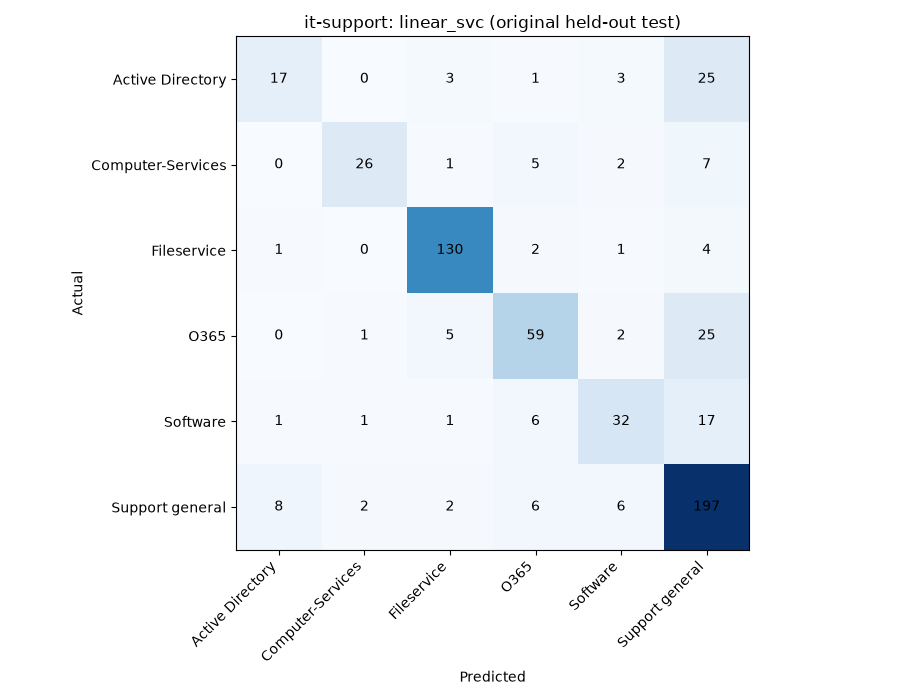
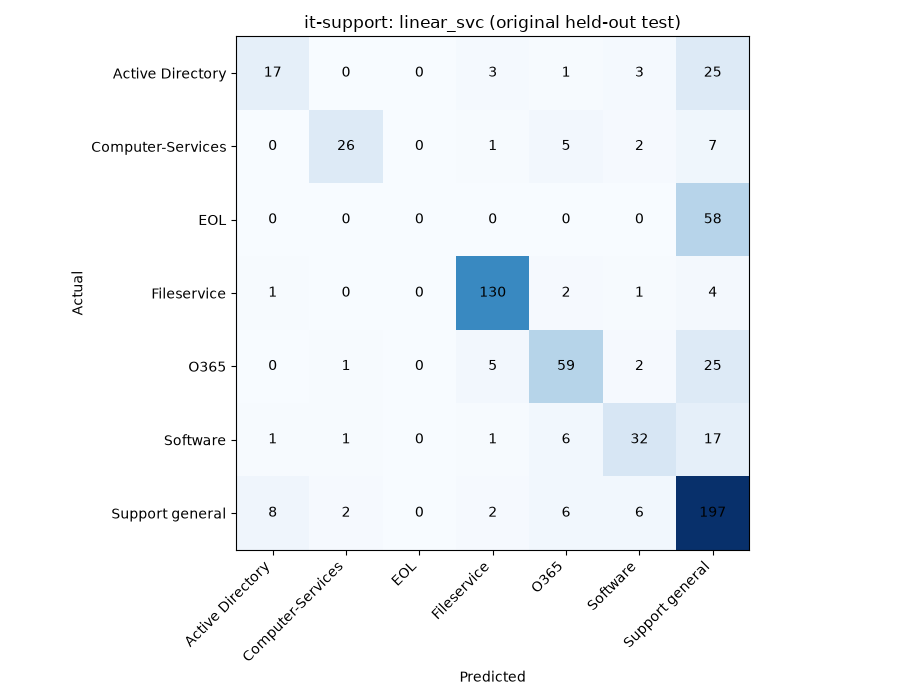
fix: retain unrepresented categories in full held-out classification reports

diff --git a/src/opspilot/classifier.py b/src/opspilot/classifier.py
@@ -63,6 +63,7 @@ def train_classifier(
 
     train, test, provenance = frames(dataset, external)
     train, test = train.copy(), test.copy()
+    evaluation_labels = sorted(set(train.label) | set(test.label))
     # Text identity only: quarantine published contamination without consulting test labels.
     train["identity"] = train.text.map(preprocess)
     test_identity = set(test.text.map(preprocess))
@@ -112,7 +113,9 @@ def train_classifier(
         start = time.perf_counter()
         predicted = best_pipeline.predict(test.text)
         latency = (time.perf_counter() - start) * 1000 / len(test)
-        report = classification_report(test.label, predicted, output_dict=True, zero_division=0)
+        report = classification_report(
+            test.label, predicted, labels=evaluation_labels, output_dict=True, zero_division=0
+        )
         metrics = {
             "model": name,
             "C": best_c,
@@ -125,9 +128,13 @@ def train_classifier(
         comparisons.append(metrics)
         pipelines[name] = best_pipeline
         (report_dir / f"{name}_report.json").write_text(json.dumps(report, indent=2), "utf-8")
-        labels = sorted(train.label.unique())
+        # Keep categories absent from decontaminated training visible in evaluation.
+        labels = evaluation_labels
         fig, ax = plt.subplots(figsize=(9, 7))
         matrix = confusion_matrix(test.label, predicted, labels=labels)
+        pd.DataFrame(matrix, index=labels, columns=labels).to_csv(
+            report_dir / f"{name}_confusion_matrix.csv", index_label="actual"
+        )
         ax.imshow(matrix, cmap="Blues")
         for (i, j), count in np.ndenumerate(matrix):
             ax.text(j, i, str(count), ha="center", va="center")
@@ -158,6 +165,9 @@ def train_classifier(
         "validation_rows": len(valid_idx),
         "test_rows": len(test),
         "quarantined_train_rows": excluded,
+        "evaluation_labels": evaluation_labels,
+        "trained_labels": sorted(train.label.unique().tolist()),
+        "labels_without_training_examples": sorted(set(evaluation_labels) - set(train.label)),
         "split": "Original test; normalized overlap quarantined; grouped training validation",
         "training_digest": hashlib.sha256("\n".join(sorted(train.identity)).encode()).hexdigest(),
         "features": "NFKC lowercase word TF-IDF, 1-2 grams, 20k max, sublinear TF",
@@ -189,6 +199,11 @@ def train_classifier(
             f"Quarantined {excluded} overlapping training rows. Test rows: {len(test)}.",
             "Classification only; these metrics do not measure incident resolution quality.",
         ]
+    )
+    rows.append(
+        "Categories with no clean training examples: "
+        + (", ".join(metadata["labels_without_training_examples"]) or "none")
+        + ". All original categories remain in held-out metrics and confusion matrices."
     )
     (report_dir / "classification_report.md").write_text("\n".join(rows) + "\n", "utf-8")
     return metadata

diff --git a/tests/test_classifier.py b/tests/test_classifier.py
@@ -1,5 +1,6 @@
 import json
 
+import pandas as pd
 import pytest
 
 from opspilot.classifier import Classifier, frames, preprocess, train_classifier
@@ -22,3 +23,30 @@ def test_training_serialization_prediction_and_reports(tmp_path):
         Classifier(tmp_path / "missing")
     with pytest.raises(ValueError):
         frames("unsupported")
+
+
+def test_quarantined_category_remains_in_evaluation(tmp_path, monkeypatch):
+    train = pd.DataFrame(
+        [
+            {"text": f"{topic} independent issue record {index}", "label": topic}
+            for topic in ("vpn", "mail")
+            for index in range(12)
+        ]
+        + [{"text": "identical retirement template", "label": "EOL"}]
+    )
+    test = pd.DataFrame(
+        [
+            {"text": "vpn new issue", "label": "vpn"},
+            {"text": "mail delivery failure", "label": "mail"},
+            {"text": "identical retirement template", "label": "EOL"},
+        ]
+    )
+    monkeypatch.setattr(
+        "opspilot.classifier.frames", lambda *_: (train, test, {"origin": "fixture"})
+    )
+    metadata = train_classifier("demo", tmp_path / "artifact", tmp_path / "report")
+    assert metadata["labels_without_training_examples"] == ["EOL"]
+    matrix = pd.read_csv(tmp_path / "report" / "linear_svc_confusion_matrix.csv", index_col=0)
+    assert list(matrix.columns) == ["EOL", "mail", "vpn"]
+    assert matrix.to_numpy().sum() == len(test)
+    assert matrix.loc["EOL"].sum() == 1

diff --git a/PROGRESS.md b/PROGRESS.md
@@ -18,10 +18,14 @@ classifier baselines ran successfully on pinned revision e0bbdcb96c84feaa394aaae
 LinearSVC: accuracy 0.701674, macro-F1 0.589281; see reports/real for full results.
 Synthetic retrieval/agent CLI evaluation ran on 24 cases. API and Streamlit servers started
 successfully in tools/smoke.py; real HTTP analysis and approval passed. Streamlit AppTest exercised
-the investigation and approval controls. Ruff checks passed. Pytest: 23 passed, 98.67% coverage.
+the investigation and approval controls. Ruff checks passed. Pytest: 24 passed, 98.68% coverage.
 Final review added whitespace-only input rejection and specific synthetic historical root causes
 and resolutions. Windows smoke helpers now launch the underlying interpreter directly so
 temporary server cleanup closes all child-process handles.
+Visual review caught a confusion-matrix label omission after EOL lost all 45 training examples
+to overlap quarantine. The corrected matrix retains all seven labels and sums to all 657 test
+records. EOL's 58 test records have zero recall; missing training coverage is explicit in metadata
+and documentation. A regression test protects this case. Accuracy/F1 values remain unchanged.
 
 GitHub publication was authorized by the user's explicit PetuBoi repository instruction.
 Portable gh is at A:\Projects\.build-cache\gh\gh.exe. Both required auth checks confirmed

diff --git a/docs/evaluation.md b/docs/evaluation.md
@@ -19,6 +19,13 @@ then evaluate the full, unchanged 657-row test. Both baselines have their own te
 Do not tune subsequent changes on those reported test metrics. Near-duplicate and multilingual
 generalization risks remain. Batch inference time per ticket is not single-request server latency.
 
+All 45 original EOL training records overlap the test text identities, so cleaned training contains
+no EOL examples. The six-class learned predictor cannot predict that seventh category. All 58 EOL
+test records remain in the original test, contribute zero EOL recall/F1, and appear in the full
+seven-category confusion matrices and machine-readable counts. Metadata explicitly lists training
+labels and categories lost during quarantine. Validation metrics cover the remaining represented
+classes. No performance or coverage claim is made for the unlearnable class under this split policy.
+
 `reports/real/` contains EDA, confusion matrices, per-class precision/recall/F1 JSON, comparison
 CSV and Markdown. No RAG resolution claim is derived from the classification dataset.
 

diff --git a/README.md b/README.md
@@ -98,6 +98,9 @@ LinearSVC has no probability output; Logistic Regression probabilities are uncal
 
 Authentic revision `e0bbdcb96c84feaa394aaae9c48f8ba4b818451b`, seed 42:
 1,453 cleaned training records (119 overlapping rows quarantined), 657 original test records.
+All 45 original EOL training rows are among those overlaps, leaving **zero clean EOL training
+examples**. Its 58 test records remain in the seven-category metrics and matrix; EOL recall is
+zero. This is an explicit limitation of the decontaminated baseline, not seven-category coverage.
 
 | Model | Accuracy | Macro-F1 | Weighted-F1 |
 |---|---:|---:|---:|

diff --git a/reports/real/classification_report.md b/reports/real/classification_report.md
@@ -9,3 +9,4 @@ Dataset: it-support. Selection: validation only.
 
 Quarantined 119 overlapping training rows. Test rows: 657.
 Classification only; these metrics do not measure incident resolution quality.
+Categories with no clean training examples: EOL. All original categories remain in held-out metrics and confusion matrices.

diff --git a/reports/synthetic/classification_report.md b/reports/synthetic/classification_report.md
@@ -9,3 +9,4 @@ Dataset: demo. Selection: validation only.
 
 Quarantined 0 overlapping training rows. Test rows: 24.
 Classification only; these metrics do not measure incident resolution quality.
+Categories with no clean training examples: none. All original categories remain in held-out metrics and confusion matrices.
